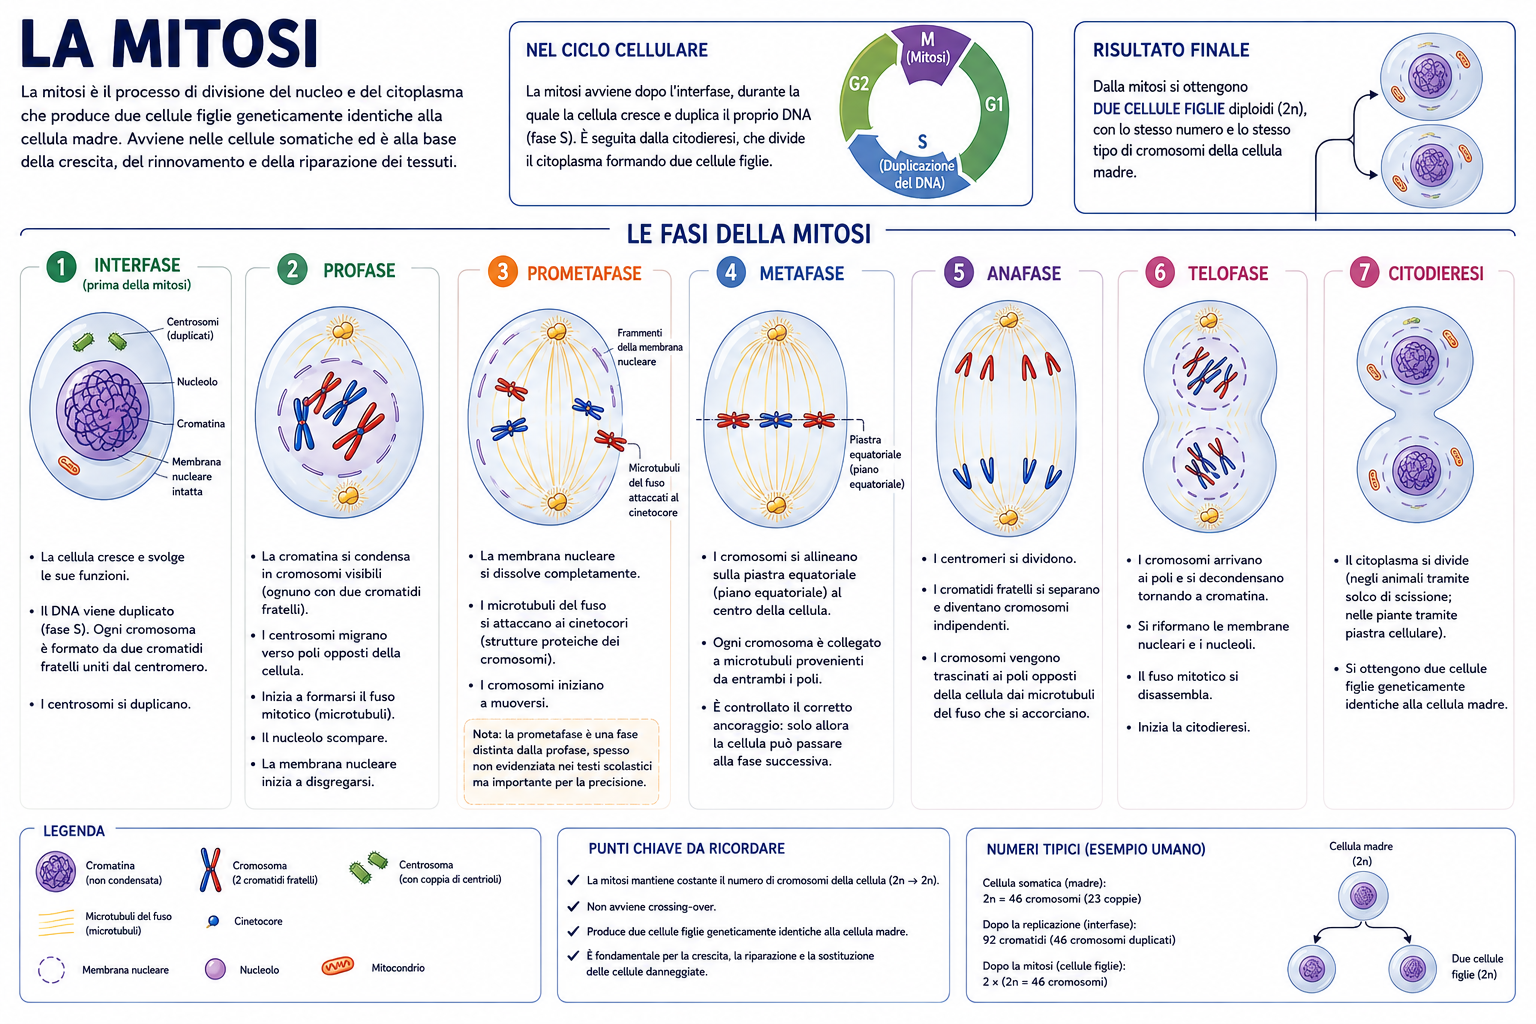
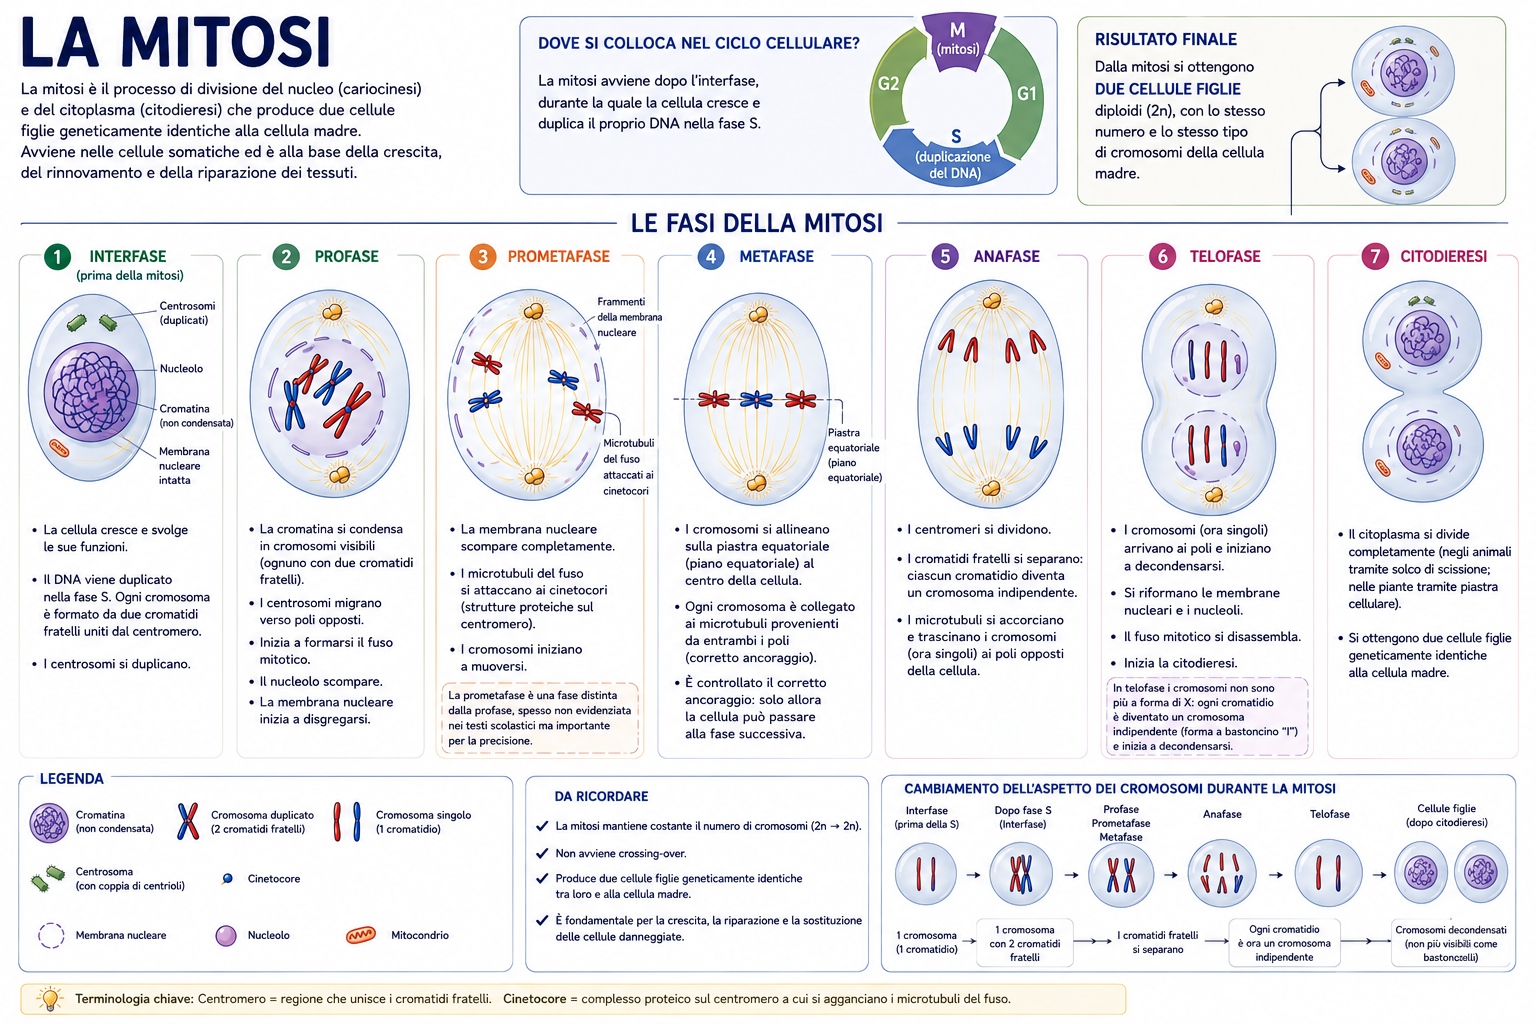
more

Changed region(s): [[0.0, 0.0, 1.0, 1.0], [0.0938, 0.6875, 0.125, 0.7188]]

diff --git a/appunti_riorganizzati.md b/appunti_riorganizzati.md
@@ -18,7 +18,7 @@ Le proteine servono per: trasporto, recettori, enzimi, adesione cellulare, comun
 I **glicolipidi** sono lipidi (grassi) a cui è legata una o più molecole di zucchero (glucidi). Si trovano soprattutto nella membrana plasmatica delle cellule, in particolare sulla superficie esterna.
 
 **2. Citoplasma**
-È il materiale gelatinoso interno, dove si trovano gli organuli.
+È il materiale gelatinoso interno, dove si trovano gli organuli. È tutto il materiale contenuto all'interno della membrana cellulare ma al di fuori del nucleo.
 
 **3. Nucleo**
 Contiene il DNA, cioè le istruzioni genetiche della cellula.
@@ -365,7 +365,7 @@ Il ciclo si divide in 5 fasi principali:
 
 Il DNA si condensa e si impacchetta attorno alle proteine formando i cromosomi.
 
-A causa della duplicazione avvenuta nella fase S, i cromatidi ora sono doppi (cromatidi fratelli) e sono legati in un punto centrale detto **centromero**.
+A causa della duplicazione avvenuta nella fase S, i cromatidi ora sono doppi (cromatidi fratelli) e sono legati in un punto centrale detto **centromero** (**cinetocori** sono i punti di aggancio sul centromero).
 
 Il centrosoma si duplica e le due parti migrano ai poli opposti della cellula, iniziando a produrre i microtubuli che formeranno la rete del **fuso mitotico**.
 
@@ -545,8 +545,6 @@ Attenzione: questa replicazione avviene **una volta sola**. Poi arrivano due div
 ---
 
 **Meiosi I: divisione riduzionale**
-
-
 
 La meiosi I è la più importante da capire, perché qui il numero dei cromosomi viene dimezzato. Da 2n si passa a n. Per questo si chiama **divisione riduzionale**.
 
@@ -5776,4 +5774,6 @@ fermo (in x = 0), qual è la velocità dell’oggetto alla fine dei 4 m?
 * Khan Academy – Phases of Meiosis: https://youtu.be/ijLc52LmFQg
 * Wikipedia – Ciclo di Krebs: https://it.wikipedia.org/wiki/Ciclo_di_Krebs
 * Preparazione al Test di Medicina https://www.youtube.com/@tdmedicina8369/videos
+
+
 
